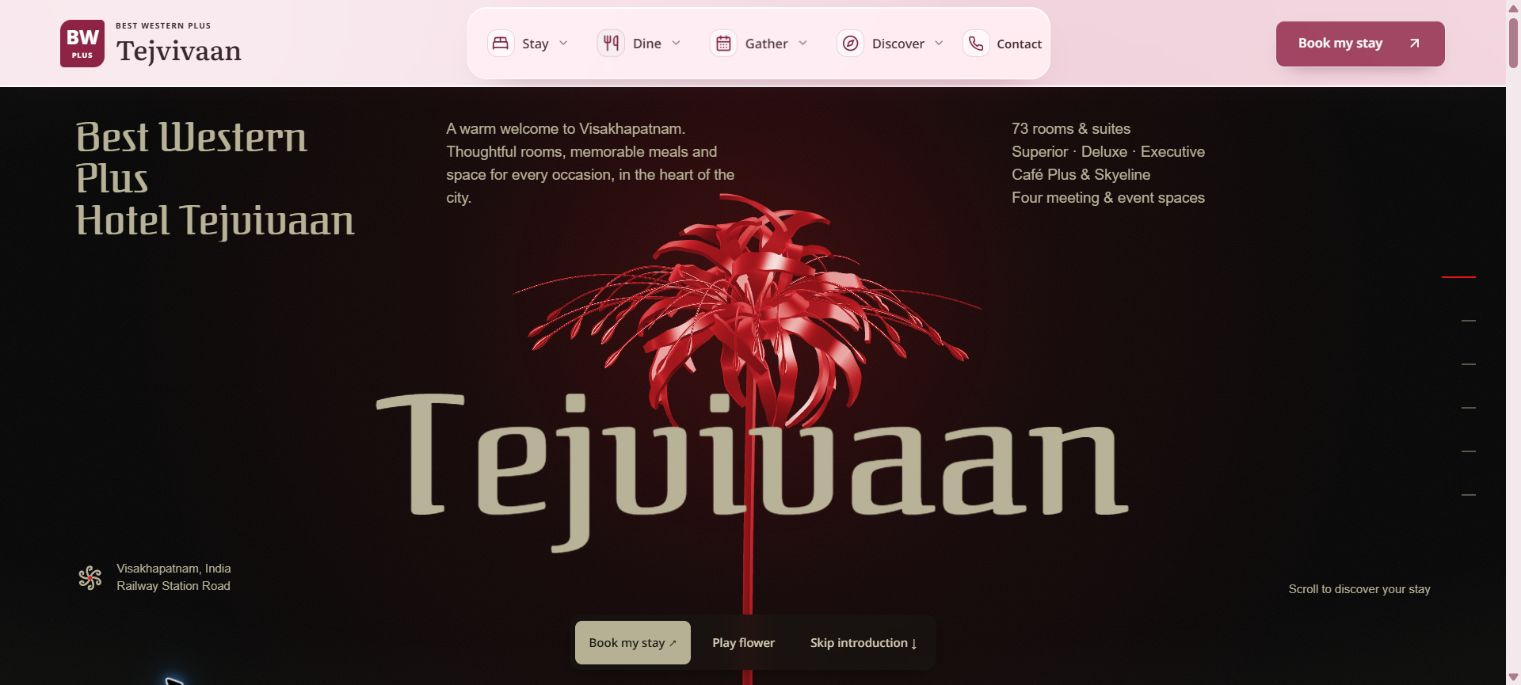
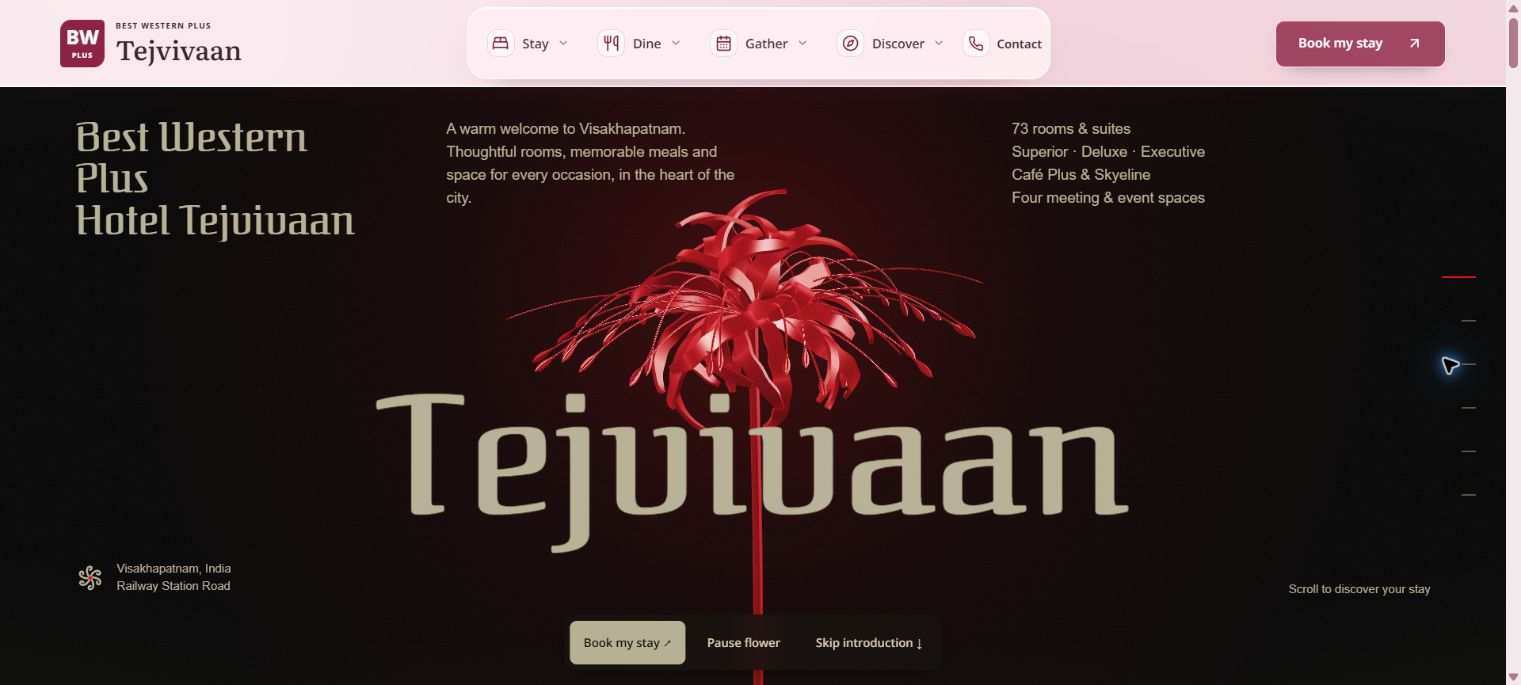
auto scroll in gallery

diff --git a/src/tejvivaan/pages/Gallery.tsx b/src/tejvivaan/pages/Gallery.tsx
@@ -1,6 +1,6 @@
-import { useEffect, useRef, useState } from 'react';
-import { ArrowLeft, ArrowRight } from 'lucide-react';
-import { motion } from 'framer-motion';
+import { useCallback, useEffect, useRef, useState } from 'react';
+import { ArrowLeft, ArrowRight, Pause, Play } from 'lucide-react';
+import { motion, useReducedMotion } from 'framer-motion';
 import { gallery, photo } from '@/tejvivaan/data';
 import { PageIntro } from '@/tejvivaan/components';
 import GlassFolder, { type ArtRecipe } from '@/components/ui/glass-folder-cards';
@@ -19,7 +19,13 @@ const roseGlass: ArtRecipe = {
 export function Gallery() {
   const [filter, setFilter] = useState('All');
   const [selected, setSelected] = useState<number | null>(null);
+  const [autoPaused, setAutoPaused] = useState(false);
+  const [hovered, setHovered] = useState(false);
+  const [focused, setFocused] = useState(false);
+  const [dragging, setDragging] = useState(false);
   const carouselRef = useRef<HTMLDivElement>(null);
+  const resumeAfter = useRef(0);
+  const reducedMotion = useReducedMotion();
   const items = filter === 'All' ? gallery : gallery.filter(item => item.category === filter);
   const categories = [...new Set(gallery.map(item => item.category))];
   const folders = (filter === 'All' ? categories : [filter]).map(category => ({
@@ -42,10 +48,52 @@ export function Gallery() {
     if (index >= 0) setSelected(index);
   };
 
-  const scrollCarousel = (direction: -1 | 1) => {
+  const scrollCarousel = useCallback((direction: -1 | 1) => {
     const carousel = carouselRef.current;
-    if (carousel) carousel.scrollBy({ left: direction * carousel.clientWidth * 0.82, behavior: 'smooth' });
-  };
+    if (!carousel) return;
+    const cards = Array.from(carousel.children) as HTMLElement[];
+    if (!cards.length) return;
+    const max = carousel.scrollWidth - carousel.clientWidth;
+    const current = carousel.scrollLeft;
+    const positions = cards.map(card => Math.min(max, card.offsetLeft - cards[0].offsetLeft));
+    const left = direction === 1
+      ? current >= max - 2 ? 0 : positions.find(position => position > current + 2) ?? max
+      : current <= 2 ? max : positions.reverse().find(position => position < current - 2) ?? 0;
+    carousel.scrollTo({ left, behavior: reducedMotion ? 'instant' : 'smooth' });
+  }, [reducedMotion]);
+
+  const holdAutoScroll = () => { resumeAfter.current = Date.now() + 6000; };
+
+  useEffect(() => {
+    carouselRef.current?.scrollTo({ left: 0, behavior: 'instant' });
+    resumeAfter.current = 0;
+  }, [filter]);
+
+  useEffect(() => {
+    const carousel = carouselRef.current;
+    if (!carousel || reducedMotion !== false || autoPaused || hovered || focused || dragging || selected !== null || items.length < 2) return;
+    let visible = false;
+    let timer: number | undefined;
+    const sync = () => {
+      window.clearInterval(timer);
+      timer = undefined;
+      if (!visible || document.hidden) return;
+      timer = window.setInterval(() => {
+        if (Date.now() >= resumeAfter.current) scrollCarousel(1);
+      }, 4000);
+    };
+    const observer = new IntersectionObserver(([entry]) => {
+      visible = entry.isIntersecting && entry.intersectionRatio >= 0.4;
+      sync();
+    }, { threshold: [0, 0.4] });
+    observer.observe(carousel);
+    document.addEventListener('visibilitychange', sync);
+    return () => {
+      window.clearInterval(timer);
+      observer.disconnect();
+      document.removeEventListener('visibilitychange', sync);
+    };
+  }, [filter, items.length, reducedMotion, autoPaused, hovered, focused, dragging, selected, scrollCarousel]);
 
   return <main>
     <PageIntro title="A closer look." description="Spaces to settle into, tables to gather around, and moments waiting to happen." image="gallery/hotel-1.jpg" secondaryImage="gallery/dining-3.jpg"/>
@@ -55,27 +103,39 @@ export function Gallery() {
       </div>
       <p className="tj-gallery-count" aria-live="polite">{items.length} photographs</p>
       <p className="tj-gallery-hint">Open a folder, then choose a photograph.</p>
-      <section className="tj-gallery-carousel" aria-labelledby="tj-gallery-carousel-title">
+      <section className="tj-gallery-carousel" aria-labelledby="tj-gallery-carousel-title" aria-roledescription="carousel"
+        onPointerEnter={event => { if (event.pointerType === 'mouse' || event.pointerType === 'pen') setHovered(true); }}
+        onPointerLeave={() => setHovered(false)}
+      >
         <div className="tj-gallery-carousel-head">
           <div>
             <p className="tj-gallery-carousel-kicker">A closer look</p>
             <h2 id="tj-gallery-carousel-title">Moments around Tejvivaan</h2>
           </div>
           <div className="tj-gallery-carousel-controls" aria-label="Carousel controls">
-            <button type="button" aria-label="Previous photographs" onClick={() => scrollCarousel(-1)}><ArrowLeft/></button>
-            <button type="button" aria-label="Next photographs" onClick={() => scrollCarousel(1)}><ArrowRight/></button>
+            {!reducedMotion && <button type="button" aria-label={autoPaused ? 'Resume automatic scrolling' : 'Pause automatic scrolling'} aria-pressed={autoPaused} aria-controls="tj-gallery-carousel-track" onClick={() => setAutoPaused(value => !value)}>{autoPaused ? <Play size={18}/> : <Pause size={18}/>}</button>}
+            <button type="button" aria-label="Previous photographs" aria-controls="tj-gallery-carousel-track" onClick={() => { holdAutoScroll(); scrollCarousel(-1); }}><ArrowLeft/></button>
+            <button type="button" aria-label="Next photographs" aria-controls="tj-gallery-carousel-track" onClick={() => { holdAutoScroll(); scrollCarousel(1); }}><ArrowRight/></button>
           </div>
         </div>
-        <div className="tj-gallery-carousel-track" ref={carouselRef}>
+        <div className="tj-gallery-carousel-track" id="tj-gallery-carousel-track" ref={carouselRef}
+          onPointerDown={() => { setDragging(true); holdAutoScroll(); }}
+          onPointerUp={() => { setDragging(false); holdAutoScroll(); }}
+          onPointerCancel={() => { setDragging(false); holdAutoScroll(); }}
+          onPointerLeave={() => setDragging(false)}
+          onWheel={holdAutoScroll}
+          onFocusCapture={() => setFocused(true)}
+          onBlurCapture={event => { if (!event.currentTarget.contains(event.relatedTarget)) setFocused(false); }}
+        >
           {items.map((item, index) => <motion.button
             key={item.file}
             type="button"
             className="tj-gallery-carousel-card"
             aria-label={`View ${item.category.toLowerCase()} photograph ${index + 1}`}
-            initial={{ opacity: 0, y: 26, scale: 0.98 }}
+            initial={reducedMotion ? false : { opacity: 0, y: 26, scale: 0.98 }}
             whileInView={{ opacity: 1, y: 0, scale: 1 }}
             viewport={{ once: true, amount: 0.28 }}
-            transition={{ duration: 0.55, ease: [0.22, 1, 0.36, 1], delay: (index % 4) * 0.06 }}
+            transition={{ duration: reducedMotion ? 0 : 0.55, ease: [0.22, 1, 0.36, 1], delay: reducedMotion ? 0 : (index % 4) * 0.06 }}
             onClick={() => openPhoto(item.file)}
           >
             <img src={photo(`gallery/${item.file}`)} alt={`${item.category} at Best Western Plus Tejvivaan`} loading="lazy"/>

diff --git a/src/tejvivaan.css b/src/tejvivaan.css
@@ -140,7 +140,7 @@ body{background:radial-gradient(ellipse at 14% 6%,rgba(255,255,255,.82),transpar
 .tj-gallery-carousel-controls{display:flex;gap:10px;flex-shrink:0}
 .tj-gallery-carousel-controls button{display:grid;place-items:center;width:46px;height:46px;border:1px solid rgba(255,255,255,.88);border-radius:50%;background:rgba(255,255,255,.54);color:var(--tj-wine);box-shadow:0 8px 22px -16px rgba(74,24,44,.42);cursor:pointer}
 .tj-gallery-carousel-controls button:hover{background:var(--tj-wine);color:#fff;transform:translateY(-2px)}
-.tj-gallery-carousel-track{display:flex;gap:18px;overflow-x:auto;overscroll-behavior-x:contain;scroll-snap-type:x mandatory;scroll-behavior:smooth;padding:8px 2px 22px;scrollbar-color:rgba(134,27,63,.55) rgba(255,255,255,.32);scrollbar-width:thin}
+.tj-gallery-carousel-track{display:flex;gap:18px;overflow-x:auto;overflow-y:hidden;overscroll-behavior-x:contain;scroll-snap-type:x mandatory;scroll-behavior:smooth;padding:8px 2px 22px;scrollbar-color:rgba(134,27,63,.55) rgba(255,255,255,.32);scrollbar-width:thin}
 .tj-gallery-carousel-card{position:relative;display:block;flex:0 0 clamp(250px,36vw,430px);aspect-ratio:1.32;overflow:hidden;padding:0;border:1px solid rgba(255,255,255,.84);border-radius:22px;background:rgba(255,255,255,.48);box-shadow:0 16px 38px -25px rgba(64,18,38,.54);text-align:left;scroll-snap-align:start;cursor:pointer}
 .tj-gallery-carousel-card img{display:block;width:100%;height:100%;object-fit:cover;transition:transform .65s cubic-bezier(.2,.75,.25,1)}
 .tj-gallery-carousel-card:hover img{transform:scale(1.045)}
